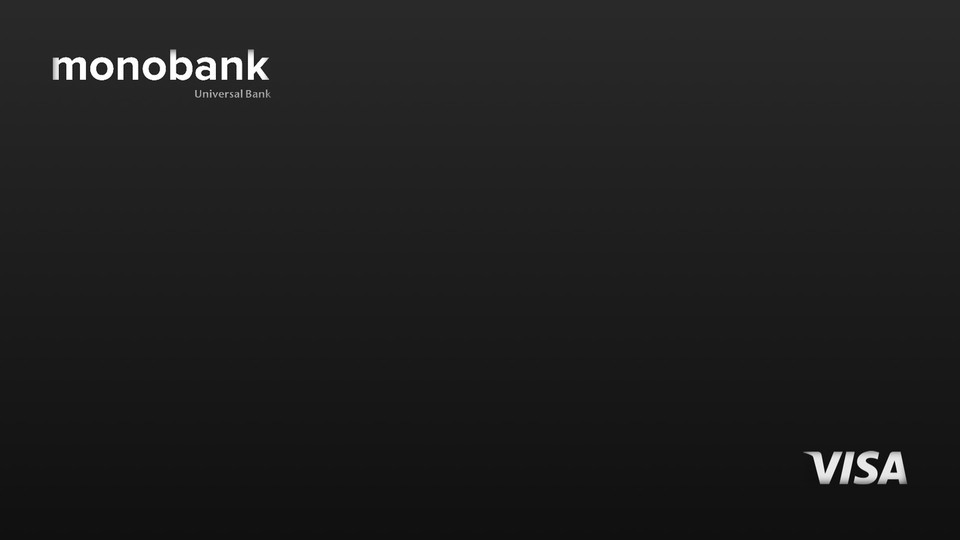
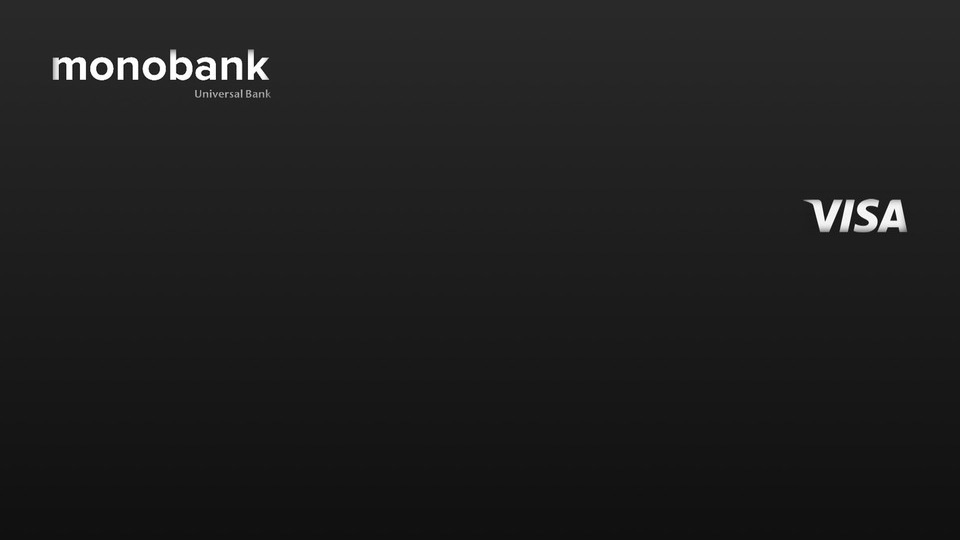
Счёт операции строкой в списке и на золотой карте (v0.37.1) (#135)
* feat(opcard): Monobank card shows name and category bottom-left, VISA moved up (v0.37.0)

Claude-Session: https://claude.ai/code/session_016XLYh1sR6jH3KyNXsMgjdR

* fix(opcard): account pill moves from the gold card to the list too (v0.37.1)

Claude-Session: https://claude.ai/code/session_016XLYh1sR6jH3KyNXsMgjdR

* feat(opcard): card shows only the operation name, long names shrink to 3 lines (v0.37.2)

Claude-Session: https://claude.ai/code/session_016XLYh1sR6jH3KyNXsMgjdR

* feat(opcard): manual transfer on the gold card looks like the Monobank one (v0.37.3)

Claude-Session: https://claude.ai/code/session_016XLYh1sR6jH3KyNXsMgjdR

---------

Changed region(s): [[0.8438, 0.3556, 0.9688, 0.4444], [0.8438, 0.8296, 0.9688, 0.9185]]

diff --git a/src/lib/OpCard.svelte b/src/lib/OpCard.svelte
@@ -143,22 +143,15 @@
       <CardFace {theme} kind={kind[o.action].toUpperCase()}>
         {#snippet amount()}<div class="big"><span class="v">{amt}</span><u>{o.sym}</u></div>{/snippet}
         {#snippet chip()}
-          {#if !tr && !theme}<div class="ct">{#if o.uncat}<span class="q">?</span>{:else}<OpAvatar icon={o.icon} size={34} name={o.splits ? '' : o.name} />{/if}<span class="cn">{o.name}{#if o.splits}<small>{sparts.length > 1 ? '+ ' + sparts.slice(1).map((x) => catOf(x.category_id)?.name ?? '').filter(Boolean).join(', ') : o.cat}</small>{:else if o.cat !== o.name}<small>{o.cat}</small>{/if}</span></div>{/if}
+          {#if tr}<div class="ct"><OpAvatar icon="swap" size={34} /><span class="cn" class:lg={o.name.length > 22}>{o.name}</span></div>
+          {:else}<div class="ct">{#if o.uncat}<span class="q">?</span>{:else}<OpAvatar icon={o.icon} size={34} name={o.splits ? '' : o.name} />{/if}<span class="cn" class:lg={o.name.length > 22}>{o.name}</span></div>{/if}
         {/snippet}
         {#snippet acct()}
           {#if tr}
             <!-- перевод: на карте только сумма, счета ниже в списке -->
-          {:else if !theme}
-            <span class="dd ro"><small>{o.action === 'EXPENSE' ? 'Со счёта' : 'На счёт'}</small><span>{o.acc || '—'}</span></span>
           {/if}
         {/snippet}
       </CardFace>
-      {#if tr}
-        <div class="mct"><div class="ct"><OpAvatar icon="swap" size={38} /><span class="cn">{o.name}<small>Перевод</small></span></div></div>
-      {:else if theme}
-        <div class="mct"><div class="ct">{#if o.uncat}<span class="q">?</span>{:else}<OpAvatar icon={o.icon} size={38} name={o.splits ? '' : o.name} />{/if}<span class="cn">{o.name}{#if o.splits}<small>{sparts.length > 1 ? '+ ' + sparts.slice(1).map((x) => catOf(x.category_id)?.name ?? '').filter(Boolean).join(', ') : o.cat}</small>{:else if o.cat !== o.name}<small>{o.cat}</small>{/if}</span></div></div>
-      {/if}
-
       <div class="grp">
         <div class="lst">
           {#if !o.mono && !tr}
@@ -173,7 +166,7 @@
           {/if}
           {#if tr}<div class="lr"><span>Откуда</span><b>{ends[0] ?? '—'}</b></div>{/if}
           {#if tr}<div class="lr"><span>Куда</span><b>{ends[1] ?? '—'}</b></div>{/if}
-          {#if theme && !tr}<div class="lr"><span>{o.action === 'EXPENSE' ? 'Со счёта' : 'На счёт'}</span><b>{o.acc || '—'}</b></div>{/if}
+          {#if !tr}<div class="lr"><span>{o.action === 'EXPENSE' ? 'Со счёта' : 'На счёт'}</span><b>{o.acc || '—'}</b></div>{/if}
           <div class="lr"><span>Дата</span><b>{when}</b></div>
           {#if o.net != null}
             <div class="lr"><span>Списано</span><b>{fmt(o.amount, o.amount % 1 ? 2 : 0)} {o.sym}</b></div>
@@ -287,6 +280,7 @@
   .rb span { width: 58px; height: 58px; border-radius: 50%; display: grid; place-items: center; font-size: 24px; transition: transform .15s; } .rb:active span { transform: scale(.88); } .rb:disabled { opacity: .6; }
   .rb.ok span { background: linear-gradient(160deg, #EBC77A, #B8862C); color: #fff; box-shadow: 0 8px 18px rgba(184, 134, 44, .45); animation: pulse 2.2s ease-in-out infinite; } .rb.no span { background: var(--fill); color: var(--muted); }
   @keyframes pop { from { opacity: 0; transform: scale(.4); } } @keyframes pulse { 50% { box-shadow: 0 8px 26px rgba(235, 199, 122, .75); } }
+  .cf :global(.cn.lg), .cn.lg { font-size: 13px; }
   .mct { margin: 14px 4px 2px; } .mct .ct { display: flex; align-items: center; gap: 12px; min-width: 0; } .mct .cn { display: flex; flex-direction: column; min-width: 0; line-height: 1.25; font-size: 17px; font-weight: 600; overflow-wrap: anywhere; } .mct .cn small { font-size: 13px; font-weight: 500; color: var(--muted); margin-top: 1px; } .mct .q { width: 38px; height: 38px; border-radius: 50%; display: grid; place-items: center; background: rgba(229, 88, 77, .14); color: #E5584D; font-weight: 700; flex: none; }
   .lr b.gold { color: var(--gold); font-weight: 600; }
   .cat :global(svg) { color: var(--muted); flex: none; }

diff --git a/src/lib/CardFace.svelte b/src/lib/CardFace.svelte
@@ -10,7 +10,7 @@
     <img class="bgi" src="{import.meta.env.BASE_URL}cards/mono-{theme}.jpg" alt="" draggable="false" />
     <span class="kd">{kind}</span>
     <div class="ab">{@render amount()}</div>
-    <div class="mac">{@render acct()}</div>
+    <div class="mch">{@render chip?.()}</div>
   {:else}
     <div class="art" aria-hidden="true">
       <svg viewBox="0 0 360 236" preserveAspectRatio="xMidYMid slice">
@@ -45,7 +45,8 @@
   .c3 { display: flex; align-items: center; justify-content: space-between; gap: 8px; margin-top: 22px; }
   .kd { position: absolute; top: 22px; right: 22px; font-size: 12px; letter-spacing: .16em; font-weight: 700; color: var(--sub); }
   .cf.mono .ab { position: absolute; left: 22px; top: 31%; }
-  .mch { position: absolute; left: 22px; right: 22px; top: 53%; }
+  .mch { position: absolute; left: 20px; right: 20px; bottom: 16px; }
+  .cf.mono :global(.ct) { font-size: 16px; } .cf.mono :global(.cn small) { margin-top: 1px; }
   .mac { position: absolute; left: 20px; bottom: 16px; }
   /* общие части содержимого (разметку дают окна) */
   .cf :global(.big) { display: flex; align-items: baseline; gap: 8px; margin-top: 26px; }
@@ -59,8 +60,10 @@
   .cf.mono :global(.big u) { font-size: 22px; }
   .cf.mono .ab { white-space: nowrap; }
   .cf :global(.ct) { display: flex; align-items: center; gap: 10px; min-width: 0; font-size: 16px; font-weight: 600; color: var(--fg); }
-  .cf.mono :global(.ct) { font-size: 14px; gap: 8px; }
+  .cf.mono :global(.ct) { gap: 10px; }
   .cf :global(.ct span) { overflow: hidden; text-overflow: ellipsis; white-space: nowrap; }
+  .cf :global(.ct .cn) { white-space: normal; overflow: visible; text-overflow: clip; display: -webkit-box; -webkit-line-clamp: 3; -webkit-box-orient: vertical; overflow: hidden; line-height: 1.2; max-width: 80%; overflow-wrap: anywhere; }
+  .cf :global(.ct .cn.lg) { font-size: 13px; }
   .cf :global(.cn) { display: flex; flex-direction: column; line-height: 1.15; }
   .cf :global(.cn small) { font-size: 12px; color: var(--sub); font-weight: 500; margin-top: 2px; }
   .cf :global(.dw) { position: relative; min-width: 0; }
